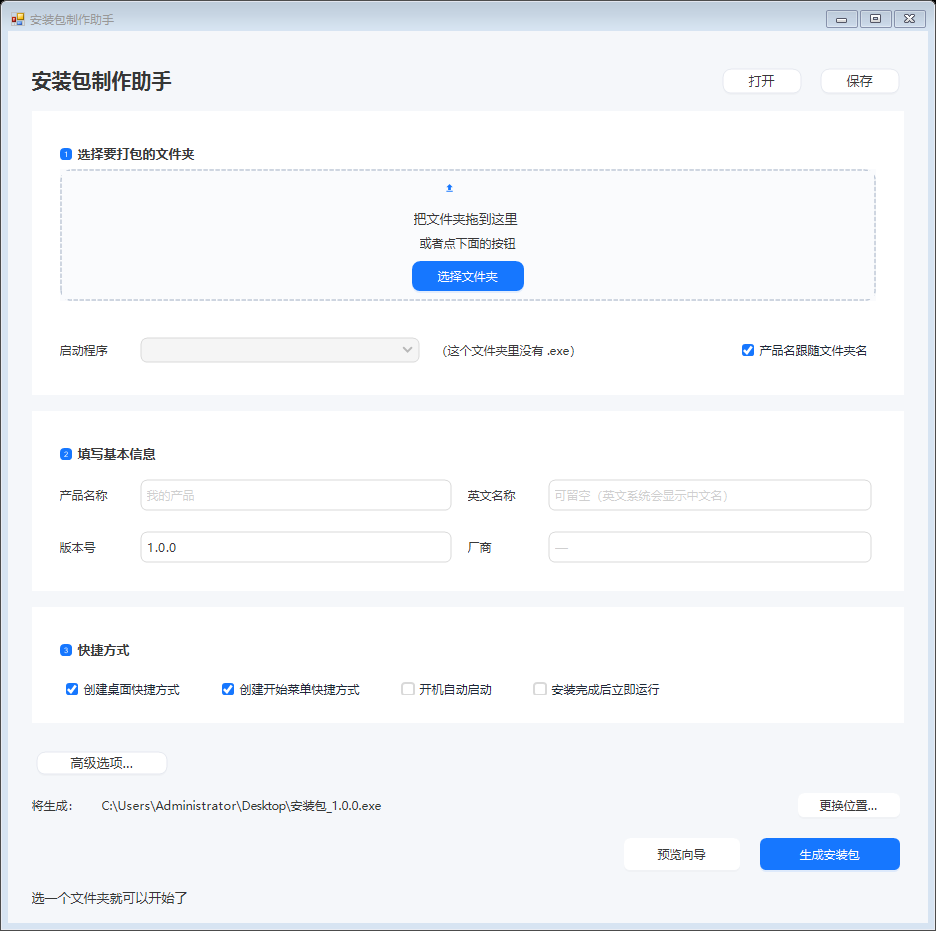
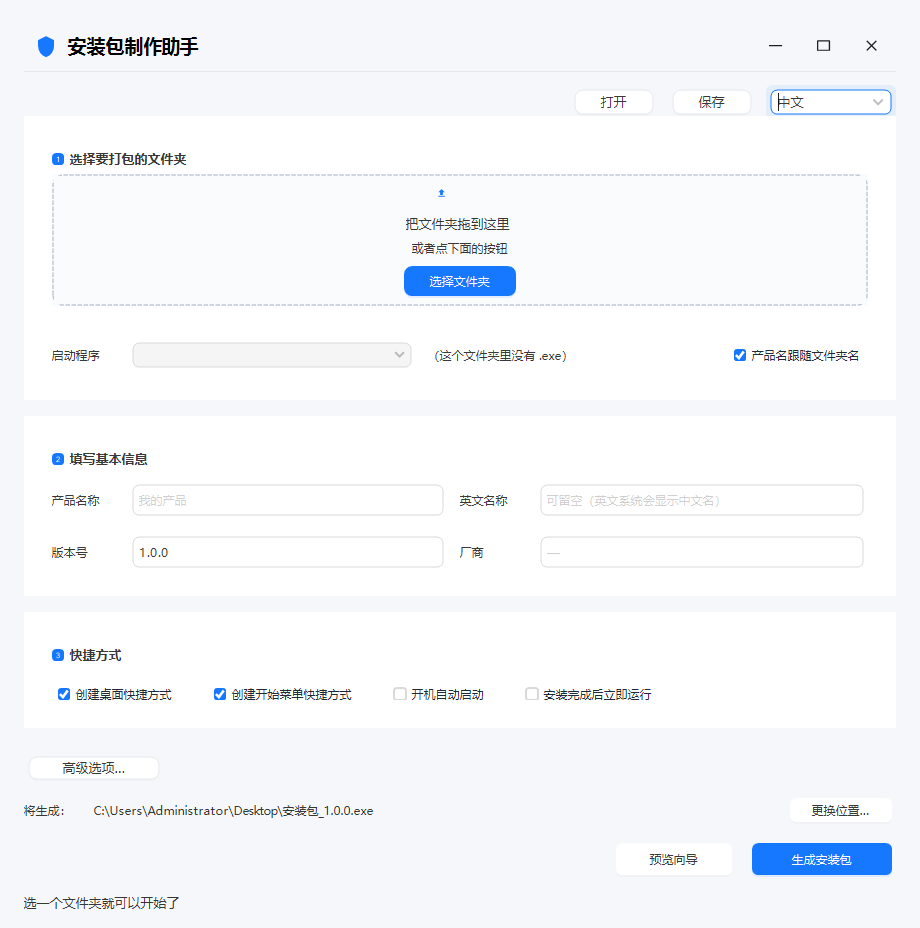
去掉系统原生标题栏：FormBorderStyle.None + AntdUI.PageHeader
用户反馈「经典 winform 的 title 留着干嘛」—— 之前只是把内容换了 AntdUI，
窗口还挂着 Windows 原生标题栏，所以不像 AntdUI 界面。

关键发现：AntdUI.BaseForm 名字听着像自带现代标题栏，其实不是。
它的 FormBorderStyle 默认仍是 Sizable（源码里 FormBorderStyle.None 只用在全屏逻辑），
所以原生标题栏是默认行为，它自己不画标题栏。

正确做法：
- FormBorderStyle = None
- 用 AntdUI.PageHeader 当标题栏（ShowButton/DragMove/DividerShow/IconSvg/Height 显式设）
- BaseForm.EnableHitTest（默认 true）负责无边框下的边框拖拽缩放
- EnableDoubleClickMaximize 处理双击标题栏最大化

改动
- 窗口分区从 4 行变 5 行：PageHeader(52) + 操作行(44) + 内容 + 输出 + 状态
- 删除冗余的 lblTitle（标题已由 PageHeader 显示）
- 操作行改单列，修正按钮顺序为「打开 / 保存 / 语言」
- 窗口 892 → 928

验收：构建 0 警告、单元测试 182/182、端到端 168/168、check-designer 通过

diff --git a/src/Installer.Builder/Forms/BuilderForm.Designer.cs b/src/Installer.Builder/Forms/BuilderForm.Designer.cs
@@ -29,8 +29,8 @@ namespace Installer.Builder.Forms
         private void InitializeComponent()
         {
             this.rootLayout = new System.Windows.Forms.TableLayoutPanel();
+            this.pageHeader = new AntdUI.PageHeader();
             this.headerLayout = new System.Windows.Forms.TableLayoutPanel();
-            this.lblTitle = new AntdUI.Label();
             this.headerRight = new System.Windows.Forms.FlowLayoutPanel();
             this.cboLang = new AntdUI.Select();
             this.btnSave = new AntdUI.Button();
@@ -61,28 +61,47 @@ namespace Installer.Builder.Forms
             //
             this.rootLayout.ColumnCount = 1;
             this.rootLayout.ColumnStyles.Add(new System.Windows.Forms.ColumnStyle(System.Windows.Forms.SizeType.Percent, 100F));
-            this.rootLayout.Controls.Add(this.headerLayout, 0, 0);
-            this.rootLayout.Controls.Add(this.bodyLayout, 0, 1);
-            this.rootLayout.Controls.Add(this.outputBar, 0, 2);
-            this.rootLayout.Controls.Add(this.statusLayout, 0, 3);
+            this.rootLayout.Controls.Add(this.pageHeader, 0, 0);
+            this.rootLayout.Controls.Add(this.headerLayout, 0, 1);
+            this.rootLayout.Controls.Add(this.bodyLayout, 0, 2);
+            this.rootLayout.Controls.Add(this.outputBar, 0, 3);
+            this.rootLayout.Controls.Add(this.statusLayout, 0, 4);
             this.rootLayout.Dock = System.Windows.Forms.DockStyle.Fill;
             this.rootLayout.Location = new System.Drawing.Point(0, 0);
             this.rootLayout.Name = "rootLayout";
             this.rootLayout.Padding = new System.Windows.Forms.Padding(24, 20, 24, 8);
-            this.rootLayout.RowCount = 4;
-            this.rootLayout.RowStyles.Add(new System.Windows.Forms.RowStyle(System.Windows.Forms.SizeType.Absolute, 60F));
+            this.rootLayout.RowCount = 5;
+            this.rootLayout.RowStyles.Add(new System.Windows.Forms.RowStyle(System.Windows.Forms.SizeType.Absolute, 52F));
+            this.rootLayout.RowStyles.Add(new System.Windows.Forms.RowStyle(System.Windows.Forms.SizeType.Absolute, 44F));
             this.rootLayout.RowStyles.Add(new System.Windows.Forms.RowStyle(System.Windows.Forms.SizeType.Percent, 100F));
             this.rootLayout.RowStyles.Add(new System.Windows.Forms.RowStyle(System.Windows.Forms.SizeType.Absolute, 94F));
             this.rootLayout.RowStyles.Add(new System.Windows.Forms.RowStyle(System.Windows.Forms.SizeType.Absolute, 34F));
-            this.rootLayout.Size = new System.Drawing.Size(920, 892);
+            this.rootLayout.Size = new System.Drawing.Size(920, 928);
             this.rootLayout.TabIndex = 0;
+            //
+            // pageHeader —— AntdUI 的自绘标题栏（配合 FormBorderStyle.None）
+            //
+            this.pageHeader.DividerShow = true;
+            this.pageHeader.Dock = System.Windows.Forms.DockStyle.Fill;
+            this.pageHeader.DragMove = true;
+            this.pageHeader.EnableDoubleClickMaximize = true;
+            this.pageHeader.IconSvg = "<svg viewBox=\"0 0 24 24\"><path d=\"M12 2 4 6v6c0 5 3.4 9.7 8 11 4.6-1.3 8-6 8-11V6l-8-4z\" fill=\"#1677FF\"/></svg>";
+            this.pageHeader.Location = new System.Drawing.Point(0, 0);
+            this.pageHeader.Margin = new System.Windows.Forms.Padding(0);
+            this.pageHeader.MaximizeBox = true;
+            this.pageHeader.MinimizeBox = true;
+            this.pageHeader.Name = "pageHeader";
+            this.pageHeader.ShowButton = true;
+            this.pageHeader.ShowIcon = true;
+            this.pageHeader.Size = new System.Drawing.Size(872, 52);
+            this.pageHeader.TabIndex = 0;
+            this.pageHeader.Text = "安装包制作助手";
+            this.pageHeader.UseTitleFont = true;
             //
             // headerLayout
             //
-            this.headerLayout.ColumnCount = 2;
+            this.headerLayout.ColumnCount = 1;
             this.headerLayout.ColumnStyles.Add(new System.Windows.Forms.ColumnStyle(System.Windows.Forms.SizeType.Percent, 100F));
-            this.headerLayout.ColumnStyles.Add(new System.Windows.Forms.ColumnStyle(System.Windows.Forms.SizeType.Absolute, 330F));
-            this.headerLayout.Controls.Add(this.lblTitle, 0, 0);
             this.headerLayout.Controls.Add(this.headerRight, 1, 0);
             this.headerLayout.Dock = System.Windows.Forms.DockStyle.Fill;
             this.headerLayout.Location = new System.Drawing.Point(22, 14);
@@ -93,23 +112,12 @@ namespace Installer.Builder.Forms
             this.headerLayout.Size = new System.Drawing.Size(840, 58);
             this.headerLayout.TabIndex = 0;
             //
-            // lblTitle
-            //
-            this.lblTitle.Anchor = System.Windows.Forms.AnchorStyles.Left;
-            this.lblTitle.AutoSize = true;
-            this.lblTitle.Font = new System.Drawing.Font("微软雅黑", 15F, System.Drawing.FontStyle.Bold);
-            this.lblTitle.Location = new System.Drawing.Point(0, 13);
-            this.lblTitle.Margin = new System.Windows.Forms.Padding(0);
-            this.lblTitle.Name = "lblTitle";
-            this.lblTitle.Size = new System.Drawing.Size(180, 27);
-            this.lblTitle.TabIndex = 0;
-            this.lblTitle.Text = "安装包制作助手";
             //
             // headerRight
             //
+            this.headerRight.Controls.Add(this.cboLang);
             this.headerRight.Controls.Add(this.btnSave);
             this.headerRight.Controls.Add(this.btnOpen);
-            this.headerRight.Controls.Add(this.cboLang);
             this.headerRight.Dock = System.Windows.Forms.DockStyle.Fill;
             this.headerRight.FlowDirection = System.Windows.Forms.FlowDirection.RightToLeft;
             this.headerRight.Location = new System.Drawing.Point(510, 0);
@@ -316,9 +324,10 @@ namespace Installer.Builder.Forms
             this.AutoScaleDimensions = new System.Drawing.SizeF(7F, 17F);
             this.AutoScaleMode = System.Windows.Forms.AutoScaleMode.Font;
             this.BackColor = System.Drawing.Color.FromArgb(((int)(((byte)(245)))), ((int)(((byte)(247)))), ((int)(((byte)(250)))));
-            this.ClientSize = new System.Drawing.Size(920, 892);
+            this.ClientSize = new System.Drawing.Size(920, 928);
             this.Controls.Add(this.rootLayout);
             this.Font = new System.Drawing.Font("微软雅黑", 9.75F);
+            this.FormBorderStyle = System.Windows.Forms.FormBorderStyle.None;
             this.MinimumSize = new System.Drawing.Size(860, 840);
             this.Name = "BuilderForm";
             this.StartPosition = System.Windows.Forms.FormStartPosition.CenterScreen;
@@ -341,8 +350,8 @@ namespace Installer.Builder.Forms
         #endregion
 
         private System.Windows.Forms.TableLayoutPanel rootLayout;
+        private AntdUI.PageHeader pageHeader;
         private System.Windows.Forms.TableLayoutPanel headerLayout;
-        private AntdUI.Label lblTitle;
         private System.Windows.Forms.FlowLayoutPanel headerRight;
         private AntdUI.Select cboLang;
         private AntdUI.Button btnSave;

diff --git a/src/Installer.Builder/Forms/BuilderForm.cs b/src/Installer.Builder/Forms/BuilderForm.cs
@@ -129,7 +129,6 @@ namespace Installer.Builder.Forms
             var t = _presenter.Text;
 
             Text = _presenter.S("App.Title");
-            lblTitle.Text = _presenter.S("App.Title");
             btnAdvanced.Text = _presenter.S("Advanced.Open");
             btnOpen.Text = _presenter.S("Menu.Open");
             btnSave.Text = _presenter.S("Menu.Save");

diff --git a/src/Installer.Builder/README.md b/src/Installer.Builder/README.md
@@ -64,6 +64,28 @@ Builder/
 | `Modal.Config` | **有** `OkText`/`CancelText`/`OkType`/`Icon` |
 | 禁用态 | `Enabled=false` 渲染成浅灰底浅灰字，几乎读不出 → 用 `Visible` 代替 |
 | `TableLayoutPanel` | 调了 `SuspendLayout()` 就必须调 `ResumeLayout()`，否则子控件不显示 |
+| `BaseForm` | **不提供自绘标题栏** —— `FormBorderStyle` 默认仍是 `Sizable`，所以会挂系统原生标题栏 |
+| `PageHeader` | 才是标题栏控件（`ShowButton`/`MaximizeBox`/`MinimizeBox`/`DragMove`/`DividerShow`），`Height` 默认 0 |
+| `BaseForm.EnableHitTest` | 默认 true，负责无边框窗口的拖拽缩放热区 |
+
+## 现代标题栏的正确做法
+
+`AntdUI.BaseForm` 名字听着像"自带现代标题栏"，其实不是。正确组合是：
+
+```csharp
+// Designer
+this.FormBorderStyle = System.Windows.Forms.FormBorderStyle.None;   // 去掉系统标题栏
+this.pageHeader.Dock        = System.Windows.Forms.DockStyle.Fill;
+this.pageHeader.DragMove    = true;    // 可拖动
+this.pageHeader.ShowButton  = true;    // 显示 最小化/最大化/关闭
+this.pageHeader.ShowIcon    = true;
+this.pageHeader.IconSvg     = "<svg …/>";
+this.pageHeader.DividerShow = true;    // 底部分隔线
+this.pageHeader.Text        = "安装包制作助手";
+```
+
+`BaseForm.EnableHitTest`（默认 true）会自动处理无边框窗口的边框拖拽缩放，
+`EnableDoubleClickMaximize` 处理双击标题栏最大化。
 
 ## 界面规格
 
